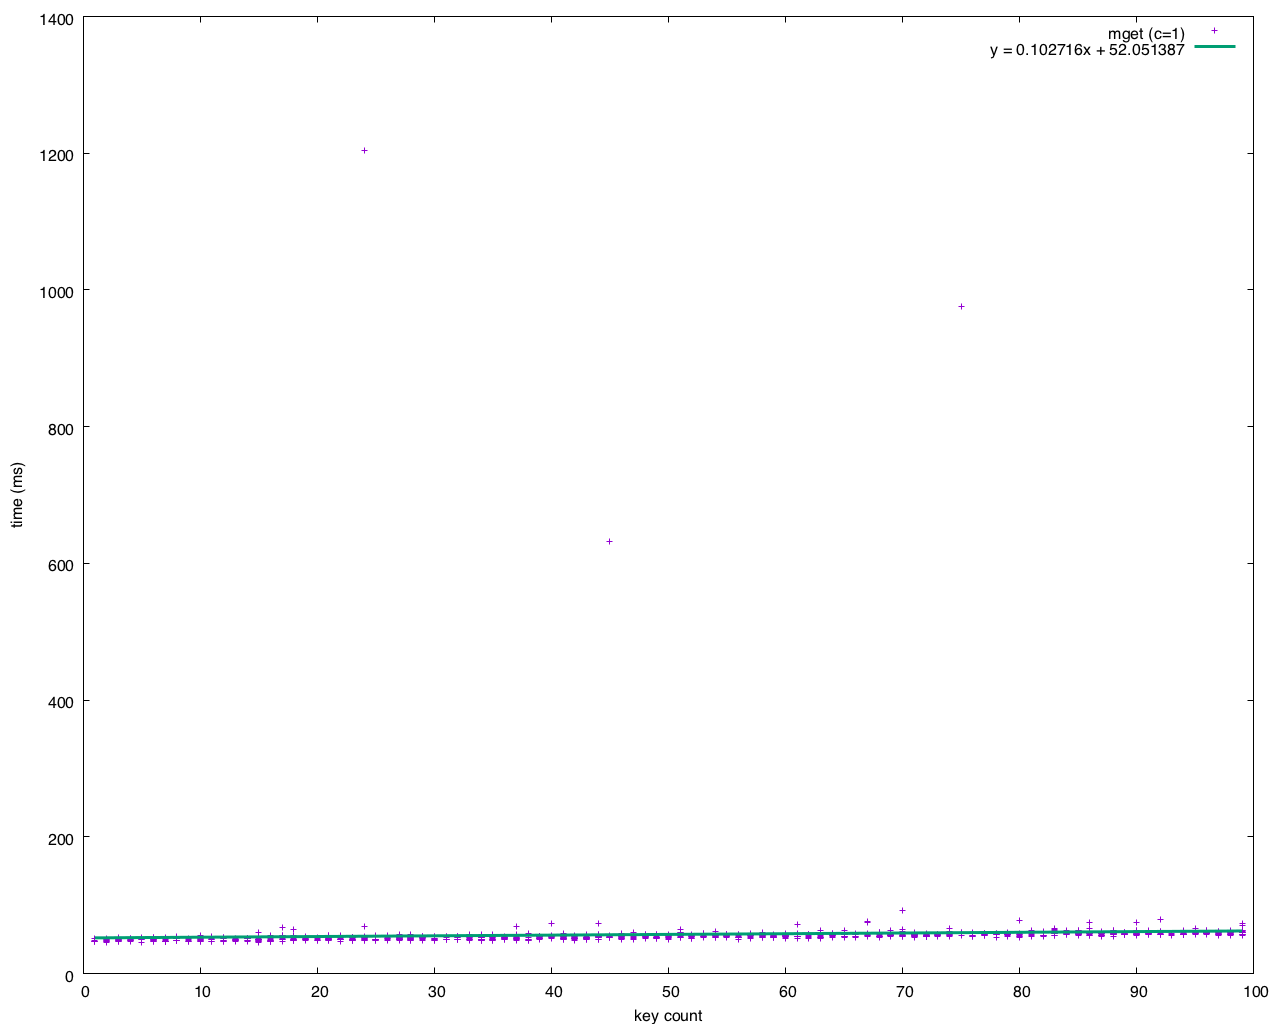
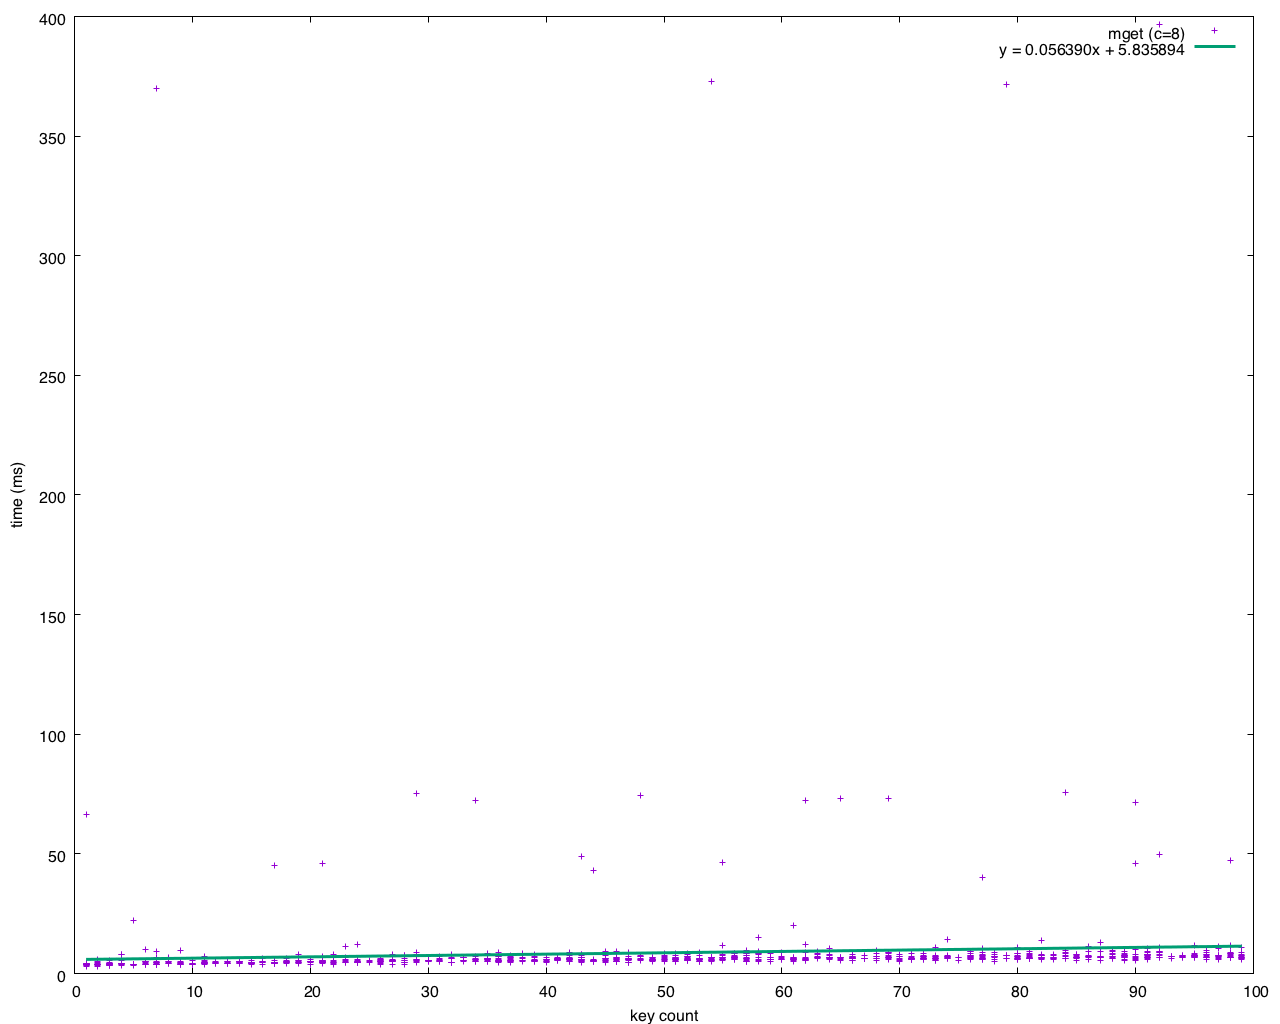
New sample results, moved client into each worker thread

diff --git a/main.go b/main.go
@@ -342,13 +342,6 @@ func scatterAction(ctx *cli.Context) error {
 		return err
 	}
 
-	client, err := bigtable.NewClient(con, ctx.GlobalString("project"), ctx.GlobalString("instance"))
-	if err != nil {
-		fmt.Println("Failed to connect")
-		return err
-	}
-	defer client.Close()
-
 	if ctx.Bool("gnuplot") {
 		fmt.Println("$DATABLOCK << EOD")
 	}
@@ -373,6 +366,12 @@ func scatterAction(ctx *cli.Context) error {
 		go func() {
 			defer wgWorkers.Done()
 			mykeys := keys[:] // copy for safety
+			client, err := bigtable.NewClient(con, ctx.GlobalString("project"), ctx.GlobalString("instance"))
+			if err != nil {
+				fmt.Println("Failed to connect")
+				panic(err)
+			}
+			defer client.Close()
 			table := client.Open(ctx.GlobalString("table"))
 			// warm up client
 			table.ReadRows(con, bigtable.RowList(mykeys[:10]), func(row bigtable.Row) bool {

diff --git a/README.md b/README.md
@@ -75,31 +75,30 @@ The 1-key line is repeated to allow the client a warm-up period.
 ```
 
 ```
-Holding 50000 keys
-keys    c=1     c=2     c=4     c=8     c=16
-1       0.096   0.132   0.151   0.182   0.175
-1       0.236   0.217   0.195   0.186   0.177
-5       0.194   0.097   0.060   0.070   0.184
-10      0.235   0.113   0.067   0.141   0.184
-15      0.219   0.181   0.104   0.192   0.089
-20      0.121   0.140   0.089   0.229   0.225
-25      0.279   0.269   0.230   0.249   0.241
-30      0.292   0.219   0.098   0.233   0.266
-35      0.279   0.286   0.100   0.241   0.264
-40      0.292   0.214   0.153   0.316   0.326
-45      0.363   0.157   0.122   0.134   0.327
-50      0.338   0.234   0.218   0.338   0.349
-55      0.306   0.328   0.288   0.358   0.327
-60      0.369   0.369   0.139   0.297   0.337
-65      0.381   0.197   0.141   0.348   0.352
-70      0.351   0.393   0.366   0.392   0.376
-75      0.375   0.348   0.188   0.382   0.380
-80      0.407   0.436   0.384   0.429   0.409
-85      0.393   0.242   0.173   0.205   0.418
-90      0.435   0.399   0.194   0.428   0.455
-95      0.429   0.357   0.298   0.428   0.434
-100     0.403   0.408   0.191   0.452   0.476
-Deleted 50000 test keys
+Holding 5000 keys
+keys  c=1     c=2     c=4     c=8     c=16
+1     39.938  39.815  39.511  39.261  39.383
+1     39.917  39.849  39.508  39.340  39.618
+5     40.090  39.996  39.683  39.520  39.503
+10    40.166  40.123  39.791  39.776  39.643
+15    40.284  40.163  40.051  39.957  39.996
+20    40.485  40.363  39.913  39.811  39.750
+25    40.761  40.590  40.216  39.782  39.812
+30    40.475  40.334  40.001  39.911  39.872
+35    40.684  40.611  40.111  39.988  39.906
+40    40.764  40.650  40.248  40.464  39.960
+45    40.769  40.682  40.554  40.376  40.847
+50    40.963  40.858  40.553  40.735  40.842
+55    41.273  41.013  41.208  40.951  41.373
+60    41.303  41.019  40.792  40.909  40.896
+65    41.298  41.229  41.088  41.047  41.400
+70    41.526  41.266  41.206  41.805  41.455
+75    41.467  41.411  41.177  41.483  41.531
+80    41.694  41.478  41.190  41.497  41.706
+85    41.586  41.577  41.404  41.374  41.821
+90    41.848  41.657  41.363  41.457  41.643
+95    41.812  41.688  41.348  41.362  41.972
+100   41.819  41.868  41.344  41.757  41.839
 ```
 
 ### Command: `scatter`
